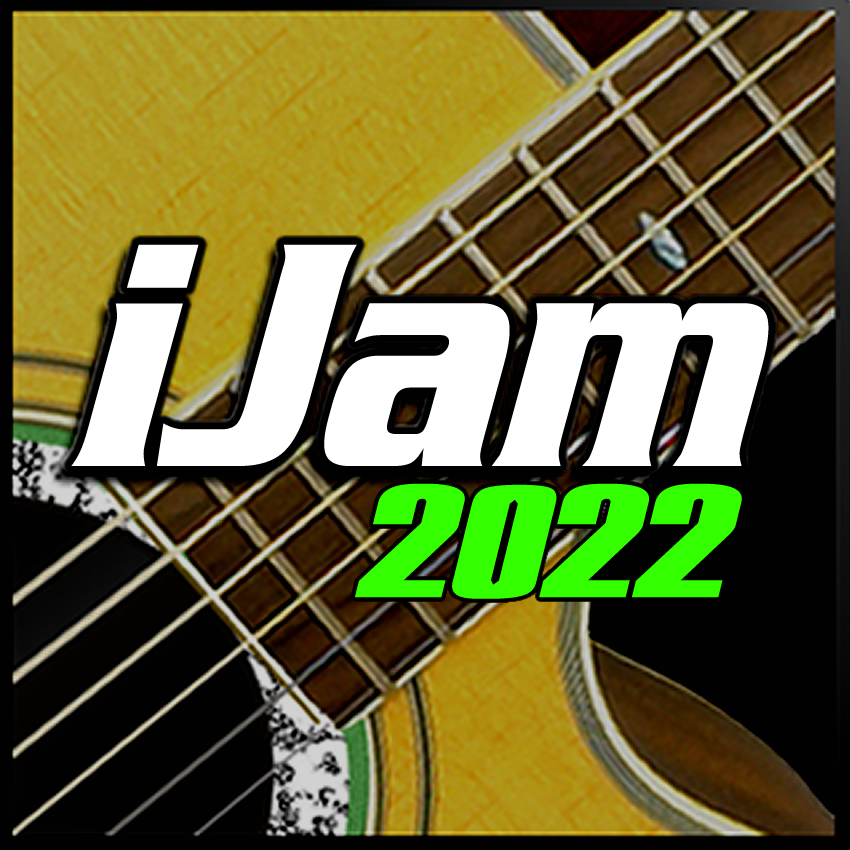
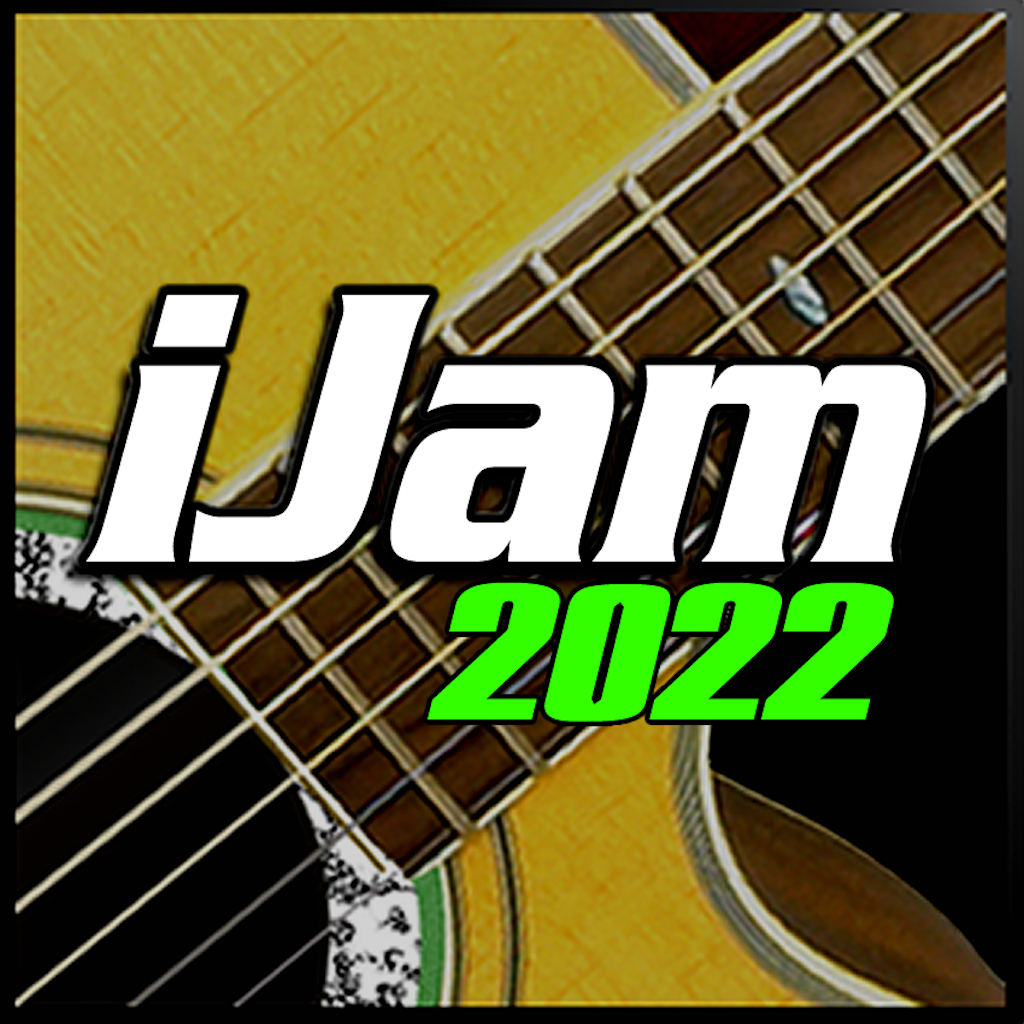
Added AppIcon suite

diff --git a/IJAM_2022/Views/FretNumbersView.swift b/IJAM_2022/Views/FretNumbersView.swift
@@ -25,29 +25,29 @@ struct FretNumbersView: View {
             
             Text(String(iJamVM.capoPosition + minFret + 1))
                 .frame(width: width, height: height / 6, alignment: .center)
-                .background(Color.gray)
-                .foregroundColor(Color.black)
-                .cornerRadius(10)
+                .background(Color.blue)
+                .foregroundColor(Color.yellow)
+                .cornerRadius(5)
             Text(String(iJamVM.capoPosition + minFret + 2))
                 .frame(width: width, height: height / 6, alignment: .center)
-                .background(Color.gray)
-                .foregroundColor(Color.black)
-                .cornerRadius(10)
+                .background(Color.blue)
+                .foregroundColor(Color.yellow)
+                .cornerRadius(5)
             Text(String(iJamVM.capoPosition + minFret + 3))
                 .frame(width: width, height: height / 6, alignment: .center)
-                .background(Color.gray)
-                .foregroundColor(Color.black)
-                .cornerRadius(10)
+                .background(Color.blue)
+                .foregroundColor(Color.yellow)
+                .cornerRadius(5)
             Text(String(iJamVM.capoPosition + minFret + 4))
                 .frame(width: width, height: height / 6, alignment: .center)
-                .background(Color.gray)
-                .foregroundColor(Color.black)
-                .cornerRadius(10)
+                .background(Color.blue)
+                .foregroundColor(Color.yellow)
+                .cornerRadius(5)
             Text(String(iJamVM.capoPosition + minFret + 5))
                 .frame(width: width, height: height / 6, alignment: .center)
-                .background(Color.gray)
-                .foregroundColor(Color.black)
-                .cornerRadius(10)
+                .background(Color.blue)
+                .foregroundColor(Color.yellow)
+                .cornerRadius(5)
         }
     }
 }

diff --git a/IJAM_2022/Views/VolumeView.swift b/IJAM_2022/Views/VolumeView.swift
@@ -21,9 +21,15 @@ struct VolumeView: View {
                 // FIX: set button size and slider size dynamically
                 Button(action: {
                     self.iJamVM.isMuted.toggle()
+                   
                     if (self.iJamVM.isMuted) {
-                        self.iJamVM.savedVolumeLevel = self.iJamVM.volumeLevel
-                        self.iJamVM.volumeLevel = 0.0
+                        // save volume level and set to zero
+                        self.iJamVM.savedVolumeLevel    = self.iJamVM.volumeLevel
+                        self.iJamVM.volumeLevel         = 0.0
+                    }
+                    else {
+                        // restore volume level
+                        self.iJamVM.volumeLevel = self.iJamVM.savedVolumeLevel
                     }
                 }) {
                     Image(systemName: self.iJamVM.isMuted ? "speaker.slash.fill" : "speaker.wave.1")

diff --git a/IJAM_2022/ViewModels/StringsViewModel.swift b/IJAM_2022/ViewModels/StringsViewModel.swift
@@ -41,6 +41,8 @@ class StringsViewModel: ObservableObject {
         let newLength   = noteName.count - 4 // trims ".wav" from end
         let prefix      = String(noteName.prefix(newLength))
         
+        print("==> playing String: \(stringNumber)   note: \(noteName)")
+        
         if let asset = NSDataAsset(name:prefix) {
             do {
                 let thisAudioPlayer                 = try AVAudioPlayer(data:asset.data, fileTypeHint:"wav")
@@ -131,7 +133,7 @@ class StringsViewModel: ObservableObject {
             zone = 12
         }
         
-        print ("----> zone: \(zone)")
+//        print ("----> zone: \(zone)")
         
         return zone
     }

diff --git a/IJAM_2022/ViewModels/IjamViewModel.swift b/IJAM_2022/ViewModels/IjamViewModel.swift
@@ -41,12 +41,12 @@ class IjamViewModel: ObservableObject {
             saveContext()
         }
     }
-    @Published var volumeLevel:Double = 50.0 {
+    @Published var volumeLevel:Double = 20.0 {
         didSet {
             saveContext()
         }
     }
-    @Published var savedVolumeLevel = 50.0{
+    @Published var savedVolumeLevel = 20.0{
         didSet {
             saveContext()
         }

diff --git a/IJAM_2022/Views/ContentView.swift b/IJAM_2022/Views/ContentView.swift
@@ -39,7 +39,7 @@ struct ContentView: View {
             .frame(width:width, height:height)
             .position(centered)
         }
-        .environmentObject(iJamVM)
+        .environmentObject(iJamVM)  // inject viewManager into environment
         .background(Color.black)
         .overlay(
                 RoundedRectangle(cornerRadius: 16)

diff --git a/IJAM_2022/Views/CapoPositionPickerView.swift b/IJAM_2022/Views/CapoPositionPickerView.swift
@@ -26,9 +26,7 @@ struct CapoPositionPickerView: View {
                Text("\(iJamVM.capoPosition)")
                    .fontWeight(.bold)
                    .font(.title3)
-                   .foregroundColor(Color.white)
-        
-                   
+                   .foregroundColor(Color.yellow)
            }
        }
    }
